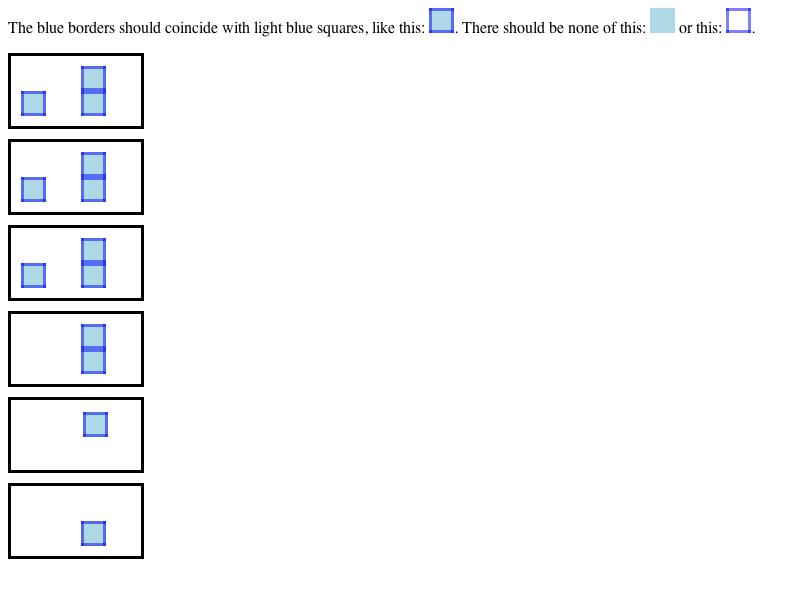
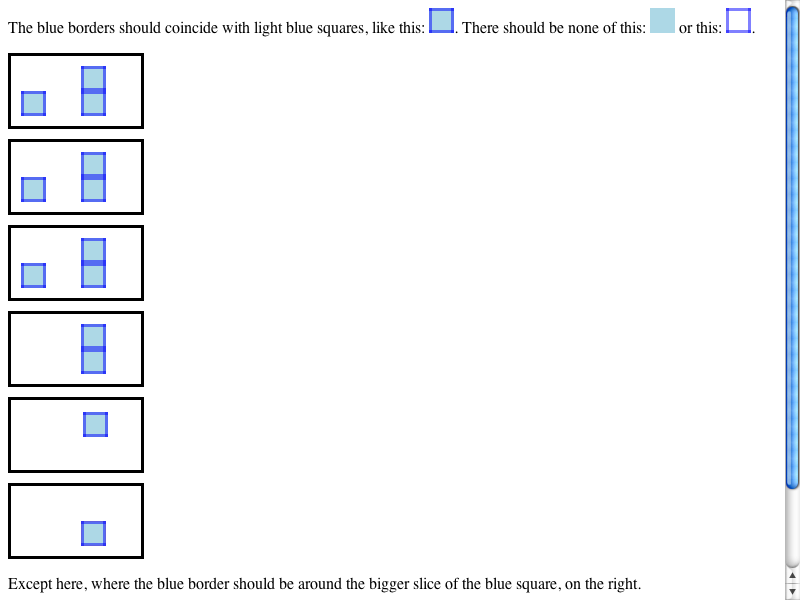
WebCore: <rdar://problem/7645609> [webView selectionRect] API is broken for multicolumn layout
Reviewed by Simon Fraser.

Refine the fix for https://bugs.webkit.org/show_bug.cgi?id=34923 by using the center of
a quad’s bounding box, rather than its top left, as the reference point passed to
offsetFromContainer(). This ensures that if a sliver off the top of the selection rect is in
one column, but most of it is on another column, the single rect we return will be for the
second column.

* platform/graphics/FloatRect.h:
(WebCore::FloatRect::center): Added.
* rendering/RenderObject.cpp:
(WebCore::RenderObject::localToContainerQuad): Use the center instead of the top left.

LayoutTests: Add test case for <rdar://problem/7645609> [webView selectionRect] API is broken for multicolumn layout

Reviewed by Simon Fraser.

* fast/multicol/client-rects-expected.checksum:
* fast/multicol/client-rects-expected.png:
* fast/multicol/client-rects-expected.txt:
* fast/multicol/client-rects.html:

git-svn-id: https://svn.webkit.org/repository/webkit/trunk@54807 268f45cc-cd09-0410-ab3c-d52691b4dbfc

Changed region(s): [[0.9688, 0.0, 1.0, 1.0], [0.0, 0.96, 0.8125, 0.99]]

diff --git a/LayoutTests/fast/multicol/client-rects.html b/LayoutTests/fast/multicol/client-rects.html
@@ -61,6 +61,14 @@
     <br><div><br><img id="t6" style="width: 25px; height: 25px; background-color: lightblue;"></div>
 </div>
 
+<p>
+    Except here, where the blue border should be around the bigger slice of the blue square, on the right.
+</p>
+
+<div class="columns">
+    <div id="t7" style=" margin-top: 40px; width: 25px; height: 25px; background-color: lightblue;"></div>
+</div>
+
 <script>
     function placeMarker(clientRect)
     {
@@ -110,4 +118,8 @@
     var image = document.getElementById("t6");
     range.selectNode(image);
     placeMarkersForRange(range);
+
+    var div = document.getElementById("t7");
+    range.selectNode(div);
+    placeMarkersForRange(div);
 </script>

diff --git a/WebCore/rendering/RenderObject.cpp b/WebCore/rendering/RenderObject.cpp
@@ -1823,7 +1823,9 @@ void RenderObject::getTransformFromContainer(const RenderObject* containerObject
 
 FloatQuad RenderObject::localToContainerQuad(const FloatQuad& localQuad, RenderBoxModelObject* repaintContainer, bool fixed) const
 {
-    TransformState transformState(TransformState::ApplyTransformDirection, localQuad.boundingBox().location(), &localQuad);
+    // Track the point at the center of the quad's bounding box. As mapLocalToContainer() calls offsetFromContainer(),
+    // it will use that point as the reference point to decide which column's transform to apply in multiple-column blocks.
+    TransformState transformState(TransformState::ApplyTransformDirection, localQuad.boundingBox().center(), &localQuad);
     mapLocalToContainer(repaintContainer, fixed, true, transformState);
     transformState.flatten();
     

diff --git a/WebCore/platform/graphics/FloatRect.h b/WebCore/platform/graphics/FloatRect.h
@@ -99,6 +99,8 @@ public:
     float right() const { return x() + width(); }
     float bottom() const { return y() + height(); }
 
+    FloatPoint center() const { return IntPoint(x() + width() / 2, y() + height() / 2); }
+
     void move(const FloatSize& delta) { m_location += delta; } 
     void move(float dx, float dy) { m_location.move(dx, dy); } 
 
